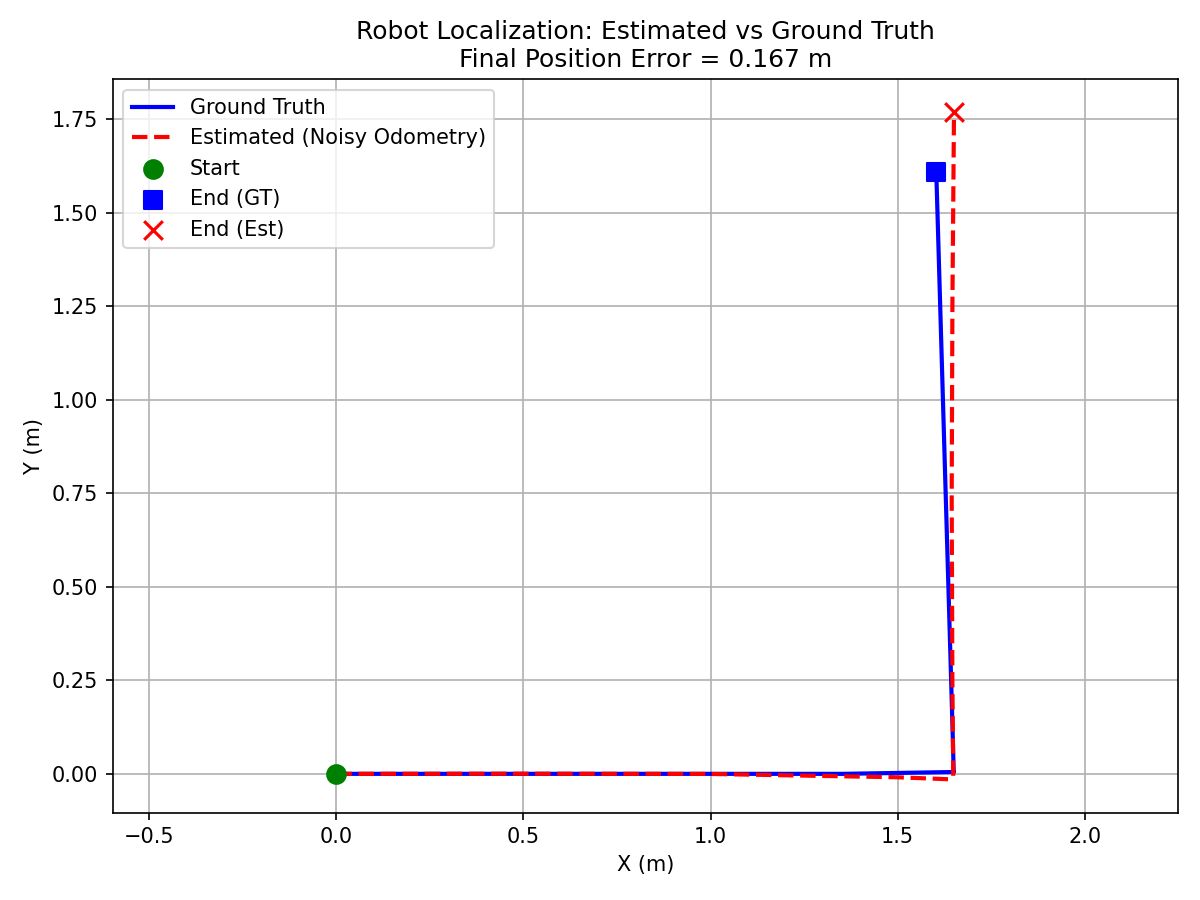
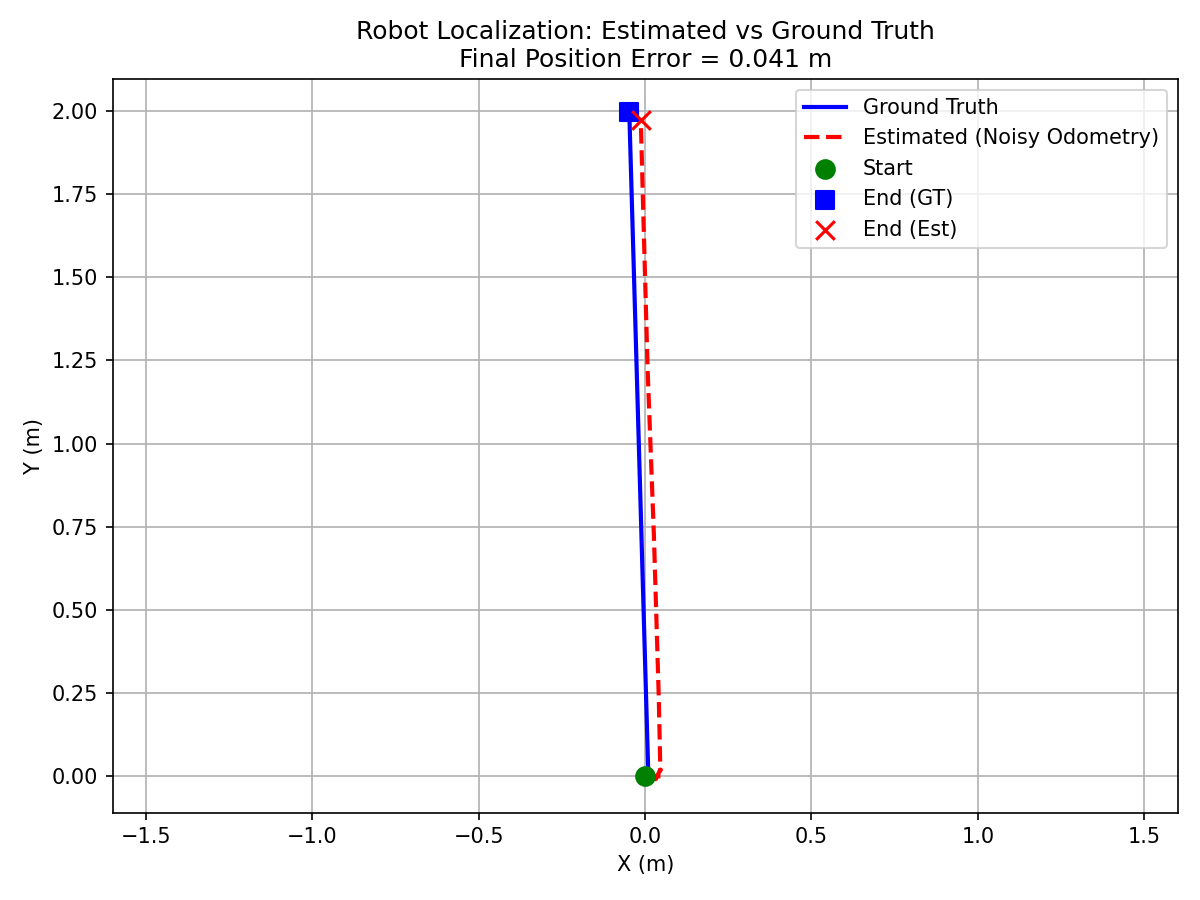
Add pause phases and ensure robot stops completely

diff --git a/assignment1/localization_node.py b/assignment1/localization_node.py
@@ -28,23 +28,26 @@ class LocalizationNode(Node):
         self.est_yaw = 0.0
 
         # 噪声标准差
-        self.sigma_v = 0.05   # m/s
-        self.sigma_w = 0.02   # rad/s
+        self.sigma_v = 0.05
+        self.sigma_w = 0.02
 
         # 记录数据
-        self.data = []        # (time, gt_x, gt_y, est_x, est_y)
+        self.data = []
         self.start_time = self.get_clock().now()
+        self.finished = False
+        self.save_done = False
 
         # 轨迹参数
-        self.dt = 0.1         # 10 Hz
+        self.dt = 0.1
         self.timer = self.create_timer(self.dt, self.control_loop)
 
-        # 状态机：0 直行，1 转向，2 再直行，3 停止
+        # 状态机：0 直行，1 暂停，2 转弯，3 暂停，4 直行，5 暂停并永久停止
         self.phase = 0
         self.phase_start_time = self.get_clock().now()
 
-        self.duration_straight = 4.0                     # 秒
-        self.duration_turn = math.pi / 2 / 0.5           # 约 3.14 秒
+        self.duration_straight = 4.0
+        self.duration_turn = math.pi / 2 / 0.5
+        self.duration_pause = 1.0
         self.v_straight = 0.5
         self.w_turn = 0.5
 
@@ -56,6 +59,9 @@ class LocalizationNode(Node):
         q = msg.pose.pose.orientation
         self.gt_yaw = quaternion_to_yaw(q)
         self.odom_received = True
+
+        if self.finished:
+            return
 
         now = self.get_clock().now()
         t = (now - self.start_time).nanoseconds / 1e9
@@ -69,42 +75,55 @@ class LocalizationNode(Node):
         elapsed = (now - self.phase_start_time).nanoseconds / 1e9
         cmd = Twist()
 
-        if self.phase == 0:
+        if self.phase == 0:          # 直行
             cmd.linear.x = self.v_straight
             cmd.angular.z = 0.0
             if elapsed >= self.duration_straight:
                 self.phase = 1
                 self.phase_start_time = now
-        elif self.phase == 1:
+        elif self.phase == 1:        # 暂停
+            cmd.linear.x = 0.0
+            cmd.angular.z = 0.0
+            if elapsed >= self.duration_pause:
+                self.phase = 2
+                self.phase_start_time = now
+        elif self.phase == 2:        # 转弯
             cmd.linear.x = 0.0
             cmd.angular.z = self.w_turn
             if elapsed >= self.duration_turn:
-                self.phase = 2
+                self.phase = 3
                 self.phase_start_time = now
-        elif self.phase == 2:
+        elif self.phase == 3:        # 暂停
+            cmd.linear.x = 0.0
+            cmd.angular.z = 0.0
+            if elapsed >= self.duration_pause:
+                self.phase = 4
+                self.phase_start_time = now
+        elif self.phase == 4:        # 再直行
             cmd.linear.x = self.v_straight
             cmd.angular.z = 0.0
             if elapsed >= self.duration_straight:
-                self.phase = 3
+                self.phase = 5
                 self.phase_start_time = now
-        else:
+        else:                        # phase 5: 永久停止
             cmd.linear.x = 0.0
             cmd.angular.z = 0.0
+            if not self.finished and elapsed >= self.duration_pause:
+                self.finished = True
+                self.get_logger().info('Trajectory complete. Saving data...')
+                self.save_data()
 
+        # 发布速度指令
         self.pub_cmd.publish(cmd)
 
-        # 用带噪声的速度更新估计位姿
-        v_noisy = cmd.linear.x + np.random.normal(0, self.sigma_v)
-        w_noisy = cmd.angular.z + np.random.normal(0, self.sigma_w)
+        # 更新估计位姿（带噪声）
+        if not self.finished:
+            v_noisy = cmd.linear.x + np.random.normal(0, self.sigma_v)
+            w_noisy = cmd.angular.z + np.random.normal(0, self.sigma_w)
 
-        self.est_x += v_noisy * math.cos(self.est_yaw) * self.dt
-        self.est_y += v_noisy * math.sin(self.est_yaw) * self.dt
-        self.est_yaw += w_noisy * self.dt
-
-        if self.phase == 3 and elapsed > 1.0:
-            self.save_data()
-            self.get_logger().info('Trajectory complete. Data saved.')
-            self.timer.cancel()
+            self.est_x += v_noisy * math.cos(self.est_yaw) * self.dt
+            self.est_y += v_noisy * math.sin(self.est_yaw) * self.dt
+            self.est_yaw += w_noisy * self.dt
 
     def save_data(self):
         filename = 'data/trajectory_data.csv'
